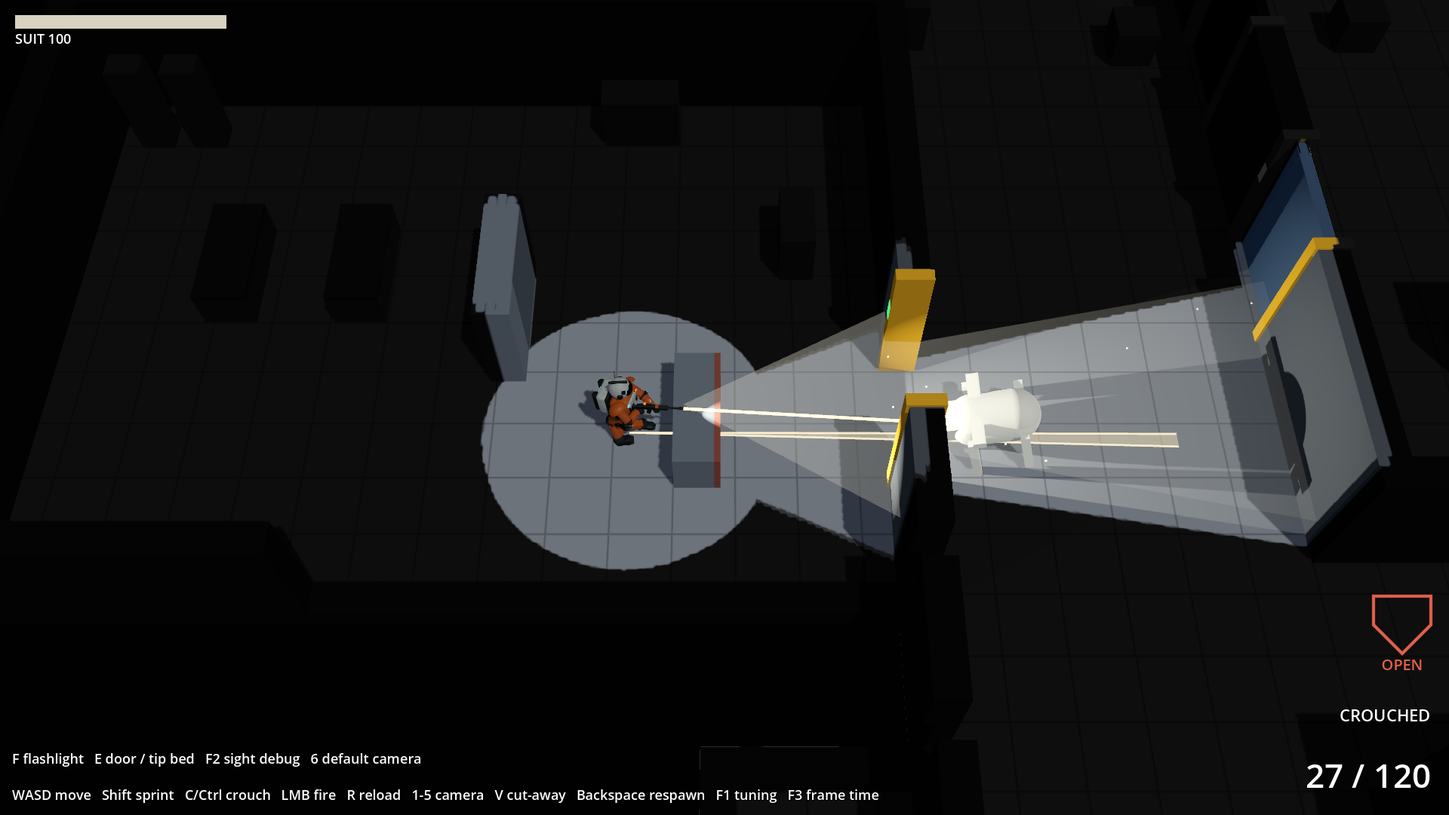
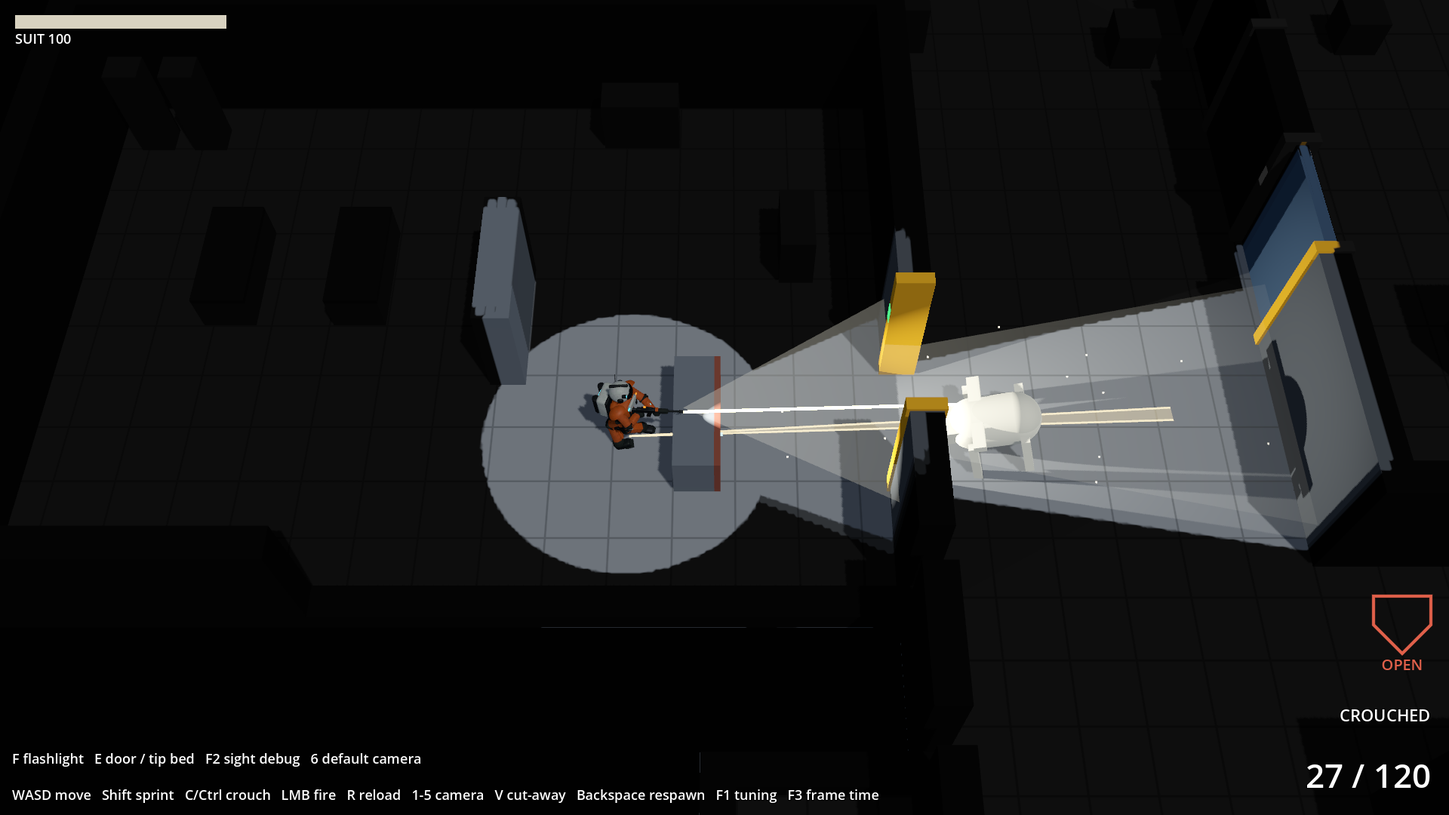
T006: contracts, handoff, STATUS, final captures

diff --git a/src/enemies/CONTRACT.md b/src/enemies/CONTRACT.md
@@ -1,6 +1,6 @@
 # enemies
 
-The stalker, its spit, the bulkhead ambush, and the scene that closes the grey-box core loop (T005).
+The stalker, its spit, the bulkhead ambush, and the scene that closes the grey-box core loop (T005). Made dangerous in T006: dashes, dodges, breaks doors.
 
 ## Owns
 - `stalker_brain.gd`: scene-free states, senses, turning, timing.
@@ -18,35 +18,38 @@ The stalker, its spit, the bulkhead ambush, and the scene that closes the grey-b
 - Cover rules (`src/cover`), the suit and puddle rules (`src/health`), sight (`src/sight`; `Visibility.blocked` answers "walls, shut doors, tall cover" for it), doors (`src/doors`).
 
 ## States
-`DORMANT` (the closet) → `STALK` on `wake`. `PROWL` → `INVESTIGATE` on a noise → back after `linger_s`. Prowl or investigate → `STALK` on seeing you or being shot. `STALK` → `SPIT` or `LUNGE` in range → `RECOVER` → `STALK`. Memory running out in `STALK` → `INVESTIGATE` the last known place. Your death → `PROWL`.
+`DORMANT` (the closet) → `STALK` on `wake`, rushing. `PROWL` → `INVESTIGATE` on a noise → back after `linger_s`. Prowl or investigate → `STALK` on seeing you, being shot at, or your light landing on it. `STALK` → `SPIT` or `LUNGE` in range → `RECOVER` → `STALK` (backing off for `back_off_s`). Prowl, investigate or stalk → `DODGE` on a threat, cooldown allowing → `STALK`. Stalk or investigate → `BASH` when a breakable shut door is all that's between it and `last_known` → `STALK` when the door stops being in the way. Memory running out in `STALK` → `INVESTIGATE` the last known place. Your death → `PROWL`.
 
 ## Rules
 - **Sight:** forward cone, stopped by walls, shut doors and tall cover, and by low cover on the 3D line to your torso: crouching behind a bed hides you. Within `close_sense_m` it feels you past low cover (not through walls).
-- **Doors:** it can't open them. A shut door stops it and its paths, and a noise behind one brings it up to the door. Doors won't close on it.
-- **Stalk:** a planner picks points on rings around you and beside cover, scored for being hidden from you, off the direct line and on its chosen side; far away it must also get closer by walking, and close up it circles.
+- **Doors:** it never opens them. If it knows you (or a noise) are behind a shut door and there's no way round, it walks up and bangs until the door breaks, `data/doors.json` `bash.break_s` of bashing. Two on one door are no faster. Locked doors hold: a stalker won't try them. Doors won't close on it.
+- **Moving:** in stalk it goes in dashes (`dash`) between short pauses, skittering side to side, facing where it's going; paused, it faces you. It walks only when prowling or investigating.
+- **Dodge:** a hit, a round passing within `shot_line_m`, or the light first landing on it. Sideways to you, to somewhere hidden if it can. Not out of a wind-up or charge. A threat during recovery waits for the recovery to end, so that window stays yours. Hits land normally during a dodge.
+- **Ambush rush:** on `wake` it goes straight at you with no pauses for up to `rush_s`, lunging as soon as it's in reach with the floor clear, whether or not it's facing you.
+- **Stalk:** a planner picks points on rings around you and beside cover, scored for being hidden from you, off the direct line and on its chosen side; far away it must also get closer by walking, and close up it circles. It replans on arriving and after an attack, when further from you scores instead of nearer and it may change sides.
 - **Lunge** only with nothing at knee height on the line (`ground_clear`). With a box between you it spits, which at short range arcs over.
 - **Fast turn on a lunge only.** Everything else turns at capped rates, and it walks where it faces.
 - **Firing from hiding** refreshes where it thinks you are.
 - **Ambush:** after you pass the panel by `past_m` with it at least `behind_deg` off your aim, within `max_range_m`. Bang and kick at once; the stalker moves `emerge_delay_s` later.
 
 ## Public API
-- `StalkerBrain.new(cfg, patrol, dormant, yaw)`: `step(delta, senses) -> events`, `hear(kind, at, from) -> bool`, `take_hit(damage, from) -> dealt`, `wake(player)`, `force_hunt`, `force_spit`, `force_lunge`, `alive()`, `hunting()`, `vulnerable()`, `state_name()`; static `perceives(...)`; fields `state`, `yaw`, `goal`, `velocity`, `last_known`, `knows`, `windup`, `charging`, `health`. Events `EV_SPIT`, `EV_LUNGE_START`, `EV_LUNGE_HIT`.
-- `StalkerNav.new(cfg, layout)`: `set_blocker(id, rect)` (empty Rect2 clears), `path(from, to)`, `is_free(p)`, `stalk_point(from, player, side, hidden)`.
+- `StalkerBrain.new(cfg, patrol, dormant, yaw)`: `step(delta, senses) -> events`, `hear(kind, at, from) -> bool`, `take_hit(damage, from) -> dealt`, `notice_shot(from)`, `wants_dodge()`, `backing_off()`, `wake(player, from)`, `force_hunt`, `force_spit`, `force_lunge`, `alive()`, `hunting()`, `vulnerable()`, `state_name()`; static `perceives(...)`; fields `state`, `yaw`, `goal`, `velocity`, `last_known`, `knows`, `windup`, `charging`, `dashing`, `rushing`, `bashing`, `plan_now`, `flip_side`, `rng`, `health`. Events `EV_SPIT`, `EV_LUNGE_START`, `EV_LUNGE_HIT`, `EV_BANG`.
+- `StalkerNav.new(cfg, layout)`: `set_blocker(id, rect, breakable)` (empty Rect2 clears), `path(from, to)`, `is_free(p)`, `line_free(a, b)`, `door_on_way(from, to)`, `dodge_point(from, player, side, hidden)`, `stalk_point(from, player, side, hidden, backing_off)`.
 - `SpitArc.new(cfg, from, to)`: `step(delta, cover, plan_blocked, body) -> FLYING|COVER|WALL|HIT|LANDED`, `point_at(s)`; static `blocked_by_cover(cfg, cover, from, to)`, `apex_for(cfg, d)`.
 - `AmbushTrigger.new(cfg, panel)`: `check(player, aim_dir) -> bool` (true once), `would_fire`, `reset()`, `fired`.
-- `StalkerPack`: `setup(layout, cover, blocked, dps)`, `tick(delta)`, `reset()`, `noise(kind, at)`, `shooter_lines()`, `play_sound(key, at)`; fields `stalkers`, `nav`, `spits`, `target` {`pos`, `height`, `alive`}.
-- `Stalker`: `setup`, `reset`, `simulate(delta, pack)`, `place_hunting(from, at)`, `take_hit`, `shot_disc`, `mouth`, `floor_position`; fields `brain`, `label`.
+- `StalkerPack`: `setup(layout, cover, blocked, dps)`, `tick(delta)`, `reset()`, `noise(kind, at)`, `shot_at(from, to)`, `door_towards(s)`, `next_dodge_point(s)`, `shooter_lines()`, `play_sound(key, at)`; fields `stalkers`, `nav`, `spits`, `light_on` (Callable, set by the scene), `target` {`pos`, `height`, `alive`}.
+- `Stalker`: `setup`, `reset`, `simulate(delta, pack)`, `place_hunting(from, at)`, `take_hit`, `shot_disc`, `mouth`, `floor_position`; fields `brain`, `label`, `door`.
 - `Bulkhead`: `setup(breach, cfg, height)`, `blow()`, `reset()`, `tick(delta)`, `blocks_sight()`, `sight_rect()`, `panel_center()`, `debris_count()`, `sealed`.
-- `stalker_deck.gd`: `simulate_world(delta)`, `interact()`, `fire_ambush()`, `body_height()`, `bed_in_reach(p)`, plus `weight_deck`'s and `sight_deck`'s. Keys: E tips a bed in reach, otherwise works a door; Backspace resets everything, starts a new life and writes the old one's log.
+- `stalker_deck.gd`: `simulate_world(delta)`, `interact()`, `fire_ambush()`, `body_height()`, `in_cover_now()`, `bed_in_reach(p)`, plus `weight_deck`'s and `sight_deck`'s. It's the project's main scene. Keys: E tips a bed in reach, otherwise works a door; 6 goes back to the default camera; Backspace resets everything, starts a new life and writes the old one's log.
 
 ## Signals
 `StalkerPack.player_hit(source, amount, stalker, in_cover)`, `player_protected(stalker)`; `SpitSystem.glob_ended(result, shooter, aimed_at)`; `Stalker.was_shot(stalker, damage, from)`; `Bulkhead.burst`.
 
 ## Data keys (`data/enemies.json`)
-- `stalker`: `health`, `radius_m`, `height_m`, `torso_m`, `mouth_m`, `hit_radius_m`, `vulnerable_damage_mult`; `senses` {`sight_range_m`, `sight_half_angle_deg`, `close_sense_m`, `memory_s`, `gunfire_m`, `sprint_m`, `sprint_emit_s`}; `turn` {`prowl_deg_s`, `investigate_deg_s`, `stalk_deg_s`, `spit_deg_s`, `lunge_deg_s`}; `speed` {`prowl_m_s`, `investigate_m_s`, `stalk_m_s`}; `prowl` {`pause_s`, `arrive_m`}; `investigate` {`linger_s`, `timeout_s`, `arrive_m`}; `stalk` {`replan_s`, `arrive_m`, `ring_radii_m`, `ring_samples`, `spot_margin_m`, `spot_range_m`, `hidden_score`, `flank_score_per_rad`, `flank_max_rad`, `side_score`, `from_cost_per_m`, `close_score_per_m`, `path_tries`, `orbit_slack_m`, `orbit_within_m`}; `nav` {`cell_m`, `repath_s`, `lookahead_cells`, `search_rings`}; `spit` {`windup_s`, `recover_s`, `cooldown_s`, `first_delay_s`, `min_range_m`, `max_range_m`, `face_deg`, `damage`, `hit_radius_m`, `protect_radius_m`, `body_margin_m`, `speed_m_s`, `min_flight_s`, `apex_short_m`, `apex_long_m`, `short_range_m`, `long_range_m`, `arc_samples`, `glob_radius_m`, `glob_color`, `glob_energy`}; `puddle` {`life_s`, `radius_m`, `blocked_back_m`, `shrink_from`, `height_m`, `color`, `energy`, `max_count`}; `lunge` {`windup_s`, `range_m`, `charge_m`, `speed_m_s`, `damage`, `hit_reach_m`, `recover_s`, `cooldown_s`, `first_delay_s`, `probe_height_m`}; `flinch` {`s`, `speed_factor`, `pitch_deg`, `flash_s`}; `body` {colours, `glow_*`, `windup_lean_deg`, `charge_stretch`, `recover_squash`, `dead_tilt_deg`, `visual_rate_per_s`, `parts` [{`capsule` [r, h] or `box` [x, y, z], `at`, `rot`}]}.
+- `stalker`: `health`, `radius_m`, `height_m`, `torso_m`, `mouth_m`, `hit_radius_m`, `vulnerable_damage_mult`; `senses` {`sight_range_m`, `sight_half_angle_deg`, `close_sense_m`, `memory_s`, `gunfire_m`, `sprint_m`, `sprint_emit_s`}; `turn` {`prowl_deg_s`, `investigate_deg_s`, `stalk_deg_s`, `spit_deg_s`, `lunge_deg_s`}; `speed` {`prowl_m_s`, `investigate_m_s`}; `dash` {`speed_m_s`, `min_s`, `max_s`, `pause_min_s`, `pause_max_s`, `turn_deg_s`, `jink_deg`, `jink_hz`, `rush_s`}; `dodge` {`speed_m_s`, `max_s`, `reach_m`, `cooldown_s`, `shot_line_m`, `angles_deg`, `hidden_score`, `side_score`, `arrive_m`}; `prowl` {`pause_s`, `arrive_m`}; `investigate` {`linger_s`, `timeout_s`, `arrive_m`}; `stalk` {`replan_s`, `arrive_replan_s`, `arrive_m`, `min_hop_m`, `back_off_s`, `flip_side_chance`, `ring_radii_m`, `ring_samples`, `spot_margin_m`, `spot_range_m`, `hidden_score`, `flank_score_per_rad`, `flank_max_rad`, `side_score`, `from_cost_per_m`, `close_score_per_m`, `path_tries`, `orbit_slack_m`, `orbit_within_m`}; `nav` {`cell_m`, `repath_s`, `lookahead_cells`, `search_rings`}; `spit` {`windup_s`, `recover_s`, `cooldown_s`, `first_delay_s`, `min_range_m`, `max_range_m`, `face_deg`, `damage`, `hit_radius_m`, `protect_radius_m`, `body_margin_m`, `speed_m_s`, `min_flight_s`, `apex_short_m`, `apex_long_m`, `short_range_m`, `long_range_m`, `arc_samples`, `glob_radius_m`, `glob_color`, `glob_energy`}; `puddle` {`life_s`, `radius_m`, `blocked_back_m`, `shrink_from`, `height_m`, `color`, `energy`, `max_count`}; `lunge` {`windup_s`, `range_m`, `charge_m`, `speed_m_s`, `damage`, `hit_reach_m`, `recover_s`, `cooldown_s`, `first_delay_s`, `probe_height_m`}; `flinch` {`s`, `speed_factor`, `pitch_deg`, `flash_s`}; `body` {colours, `glow_*`, `windup_lean_deg`, `charge_stretch`, `dash_stretch`, `recover_squash`, `dead_tilt_deg`, `visual_rate_per_s`, `parts` [{`capsule` [r, h] or `box` [x, y, z], `at`, `rot`}]}.
 - `pack` [{`name`, `space`, `at`, `yaw_deg`, `patrol` [[fx, fz]], `dormant`}].
 - `ambush`: `closet` (a space spec), `breach`, `spawn`, `pass_dir`, `past_m`, `max_range_m`, `behind_deg`, `emerge_delay_s`, `camera_kick_m`, `camera_kick_recover_s`, `panel_color`, `panel_roughness`, `debris` {`count`, `size_min_m`, `size_max_m`, `speed_min_m_s`, `speed_max_m_s`, `spread_deg`, `lift_m_s`, `gravity_m_s2`, `bounce`, `friction`, `spin_deg_s`, `color`, `hot_color`, `hot_share`}.
-- `sound`: `mix_rate`, `unit_size_m`, and `bang`, `spit`, `lunge` {`length_s`, `decay_per_s`, `low_hz`, `low_share`, `volume_db`}.
+- `sound`: `mix_rate`, `unit_size_m`, and `bang`, `spit`, `lunge`, `bash` {`length_s`, `decay_per_s`, `low_hz`, `low_share`, `volume_db`}.
 - `help` {`text`}.
 
-Tests: `tests/test_enemies.gd`.
+Tests: `tests/test_enemies.gd`. Bots: `tools/t006_bots.gd`.

diff --git a/docs/handoffs/auto-T006.md b/docs/handoffs/auto-T006.md
@@ -1,0 +1,128 @@
+# T006 handoff: a dangerous stalker, plus John's playtest fixes
+
+Branch `auto/t006-mac`. Play it: press F5 in the editor, or `godot --path .`; the main scene is now `stalker_deck`.
+New key: 6 returns to the new default camera (1-5 are the old presets, unchanged).
+
+**Nobody has played this, and nobody has heard the door bangs.** The numbers below come from bots and stills. The stage 2 gate is still open.
+
+**Two things did not fully land:**
+1. **The flashlight flicker is not confirmed fixed.** I never reproduced what John described (details below).
+2. **"Harder to land" is only partly met.** A bot with human-like lag hits about as often as before or a little less, but a perfect-aim bot hits more often and kills faster than before.
+
+## What changed
+- **Stalker:**
+  - Moves in dashes (6.5 m/s for 0.4-0.7 s, skittering side to side) with 0.2-0.55 s pauses, facing you when stopped.
+  - Dodges a hit, a near miss, or the light first landing on it, with a 0.9 s cooldown.
+  - Spit: 0.4 s wind-up, 16 m/s, 22 damage. Lunge: 5 m reach, 0.3 s wind-up, 2.4 s cooldown, 34 damage (staggers).
+  - After an attack it backs off for 1.3 s and may change sides. It replans as soon as it arrives.
+  - Health is unchanged: 7 rifle hits.
+- **Ambush:** out in 0.25 s, then straight at you with no pauses, lunging as soon as it's in reach.
+- **Doors:** a stalker never opens one. It bangs for 8 s of contact (`data/doors.json` `bash.break_s`) while the panel shakes, bows and dents, then the door lies flat and stays broken until respawn. Two stalkers are no faster.
+- **John's list:** crouch corkscrew fixed, `LIGHT OFF` on the HUD, `IN COVER` beside `CROUCHED`, shields 44 → 76 px and moved above the crouch readout, new default camera (pitch 60°, 20.5 m, fov 35°), awareness 2.2 m, 1.2 m crates block sight, main scene set.
+- **F1:** new sections for Stalker dash, Stalker dodge and Door breaking, plus Dust motes strength. The Stalk m/s slider is gone, because dash speed replaced that number.
+
+**Edits outside the named modules:** `data/deck.json` (the four `crate_high` props become `tall`, which the packet asked for) and the new tool `tools/t006_bots.gd`.
+
+### The crouch corkscrew
+It was in the legs. `L_Idle` and `L_Crouch_Idle` hold each thigh half a turn about its own length from the walk clips and rest pose. Godot blends rotations away from rest, so going into a crouch swung each foot in a loop about 0.4 m around the body. `operator_anim.gd` now rewrites those keys at load: same pose, the short way.
+- Measured: feet end where they did to within 1 cm and now travel straight.
+- Foot slide (`tools/t003_footslide.gd`) is no worse in any direction, and better walking back (68% → 59% of body speed) and sprinting (43% → 35%). The rest are within about 5 points.
+
+### The flashlight flicker: what I found and didn't
+| Suspect | Result |
+| --- | --- |
+| Sight polygon | Ruled out: 0 of 596,736 vertices leaked through an occluder across 8,000 aim steps; no area jumps over 1 m² |
+| Mouse-aim feedback through the camera | No oscillation found at 60 or 144 fps |
+| Motes, beam, spot shadow | No single one dominates: movie-mode twinkle 1.47% with all on, 1.42-1.46% with any one off, 1.16% light off. The gap fits the larger lit area |
+| Open door panel against its post | **Real and fixed:** a blue strip flashed through the yellow post in one saved frame, and flipping pixels went from 8 to 0 with the panel hidden |
+
+- **Fixed:** the open panel is now hidden, since it lies inside the wall.
+- **Fixed, but no before/after measured:** the beam dropped polygon points closer than the muzzle, joining their neighbours in one big triangle that could snap in and out near walls. Points are now pushed out instead.
+- **One unexplained reading:** a single early pass showed 47% of the screen twinkling in its worst frame. It didn't repeat in later runs, including a recreation of that opening, so I treated it as a startup artifact without proving it.
+- **Still untested:**
+  - The operator moves at 60 Hz while the camera moves at display rate (already in Parked), which my 60 fps movie runs can't show.
+  - The sight mask's stair-stepped edges, visible in the captures, which may crawl in motion.
+
+**John:** if it still flickers, set F1 Dust motes strength and Beam strength to 0 one at a time, tell us which clears it, and say whether it happens standing or moving.
+
+## Checks run
+**Headless: 181 passed, 0 failed, 0 load errors** (153 before T006). `--import` exits 0 with no errors; it still prints the 13 `invalid UID` warnings for `operator.glb`.
+
+| Packet check | Test |
+| --- | --- |
+| dash beats the walk | `test_a_dash_is_faster_than_the_players_walk_and_comes_in_bursts` |
+| shot → dodge, cooldown holds | `test_a_shot_triggers_a_dodge_and_the_cooldown_holds`, plus near-miss and light tests |
+| spit from data | `test_the_faster_spit_comes_from_data` |
+| ambush bots | `test_the_ambush_bites_a_player_who_only_reacts_to_the_sound`, `test_a_player_who_turns_at_once_fires_before_being_hit` |
+| door bang time, never opened | `test_a_stalker_breaks_a_shut_door_after_the_bang_time_and_never_opens_it`, plus five more door tests |
+| crouch | `test_crouching_from_standing_does_not_swing_the_legs_around` |
+| `IN COVER` | `test_in_cover_shows_behind_low_cover_with_nobody_hunting` |
+| camera default | `test_the_new_camera_is_the_default_in_every_deck_and_old_presets_keep_their_keys` |
+
+Old tests changed for John's numbers or the new behaviour: the sight fixture now uses `crate_low`, one cover-glob test blocks the stalker's own extra spit, and the lunge test compares against dash speed.
+
+Breaking the code on purpose, then restoring it:
+| Break | Tests that fail |
+| --- | --- |
+| a hit doesn't dodge | 2 |
+| no dodge cooldown | 1 |
+| door breaks in half the time | 2 |
+| stalker opens the door | 5 |
+| no leg untwist | 1 |
+| `IN COVER` needs a hunter | 1 |
+| the rush doesn't dash | 3 |
+| ambush back to 0.55 s | 1 |
+
+### Bot report (`tools/t006_bots.gd`, 12 runs each; "before" is commit 77d6c9d)
+| Bot | Before | After |
+| --- | --- | --- |
+| Standing still, after the burst: dies at | 8.57 s (first hit 3.00 s) | **4.98 s** (first hit 1.57 s) |
+| Crouched behind the bed, stalker 6 m off: dies at | 10.40 s (first hit 4.83 s) | **6.99 s** (first hit 3.32 s) |
+| Ambush, walks on 0.45 s then reacts: hit in | 1 of 12 runs | **12 of 12**, at 1.48 s (first shot 1.07 s) |
+| Ambush, turns at once: hit in | 1 of 12 runs | **12 of 12**, at 1.22 s (first shot 0.52 s) |
+| Tracks with 0.2 s lag: hit rate, kill time | 39%, 3.12 s | 31-38%, 2.60-3.24 s (two runs) |
+| Tracks perfectly: hit rate, kill time | 43%, 2.74 s | 61%, 1.62 s |
+
+- **Before the tuning pass,** the perfect tracker was at 71% and 1.40 s, and the lag tracker at 48% and 1.89 s. Skitter, a tighter hit disc (0.6 → 0.45 m) and the shorter dodge cooldown brought them down.
+- **Why perfect aim still does better:** the stalker now reaches you sooner and stands still in its wind-ups, and dodges don't interrupt those. I kept it that way because a dodge out of a wind-up would let your first hit cancel the ambush lunge.
+- **The bots are limited:** they stand still and fire whatever the cone says. The two tracking bots never die, so these runs can't say how the fight feels. The cover bot never moves either.
+- **Also worth knowing:** even the bot that turns at once gets hit. It gets a shot off first, as the packet asks, and only moving out of the charge line avoids the lunge. No bot tries that.
+
+### Frame time with two stalkers (15 s windows, 1920×1080, M2 Pro, Metal, MSAA 4x, vsync off)
+| Build | Average ms | p95 ms | p99 ms | Max ms |
+| --- | --- | --- | --- | --- |
+| T006 (2 runs before the door polish) | 8.41, 8.49 | 13.49, 13.32 | 16.28, 18.29 | 71.0, 122.3 |
+| T006 final capture | 8.57 | 13.78 | 20.56 | 82.9 |
+| T005 (same conditions, 2 runs) | 8.44, 8.45 | 14.21, 14.16 | 17.48, 18.89 | 34.4, 64.0 |
+
+**No measurable average cost compared with T005, but this isn't a quiet-machine number.** Zoom and Chrome were running (load average about 5-6), so don't compare it with T005's 3.50 ms. Max spikes were higher in the T006 runs, but on this few runs and this load I can't tell whether that's real.
+
+## Screenshots (`docs/screens/T006/`)
+`dash_mid_motion`, `dodge`, `spit_windup_fast`, `lunge_charge`, `door_mid_bash`, `door_broken`, `in_cover_readout`, `cover_protected`, `cover_braced_exposed`, `light_off_hud`, `ambush_1_bang`, `ambush_2_out_and_dashing`, `ambush_3_lunging`, `camera_default`, `camera_preset_1`, `death_screen`, `stalker_deck`, `stalker_deck_overlay`, `frametime.json`.
+
+Positions are staged by script, except the ambush. In the door shots the stalker walks up and bangs for real, but the damage is jumped ahead. Only stills were reviewed, so motion hasn't been judged.
+
+## Decisions made without you (easy to change)
+- **Cover class:** the 1.2 m crates are now `tall`. They stop shots, spit and stalker sight at any stance, instead of counting as 0.9 m low cover. You can no longer fire over them, and this removes the T005 question about rounds grazing them. Consoles (1.1 m) and low crates stay low.
+- **A noise also counts as "knows you're behind the door".** Firing where a stalker can hear you, through a shut door, starts it breaking through. This is the one most likely to need your call: it makes every shot a clock.
+- **Locked doors hold.** Stalkers don't try them, so a room reachable only through a locked door is safe.
+- **Your light gives you away:** a prowling stalker caught in the beam starts hunting you, out to the light's 15 m, past its own 11 m sight.
+- **Dodging waits during a recovery,** so that 1.5× damage window stays yours; it dodges as soon as the recovery ends.
+- **`IN COVER`** counts any cover within 1.0 m in any direction, low or tall, and hides while you rise to fire. It says where you are, not who it stops; the shields say that.
+- **Door damage stays** if the stalker leaves. You can still open a dented door.
+- **Investigating stalkers** walk faster (1.7 → 2.6 m/s); prowling is unchanged.
+
+## Known limits
+- The door's "knows" isn't refreshed: a stalker keeps banging even after you've left, unless a way round opens up.
+- The broken panel has no collision and no effect on cover.
+- In the player's sight, a stalker still pops in with no fade, which matters more at dash speed.
+- Dash and door bash are placeholder motion and sound: the body stretches and leans, and the bang is generated noise.
+
+## Needs John's eye
+1. *"Is moving through these rooms with a flashlight tense and fun?"* Play with F1 open.
+2. **Is it too much now?** Standing still you're dead in 5 s. First levers: Dash m/s, Skitter, Dodge cooldown, lunge Damage.
+3. **Does it still flicker?** See the steps above.
+4. **Do you see the corkscrew again?** Stand still and press C.
+5. **Are hits hard enough to land, and do dodges read as dodging?**
+6. **Is 8 s of banging right, and is the bang loud enough through a door?**
+7. **Should a gunshot start a stalker on a door?**

diff --git a/src/sight/CONTRACT.md b/src/sight/CONTRACT.md
@@ -17,12 +17,13 @@ Pillar 2, "Know the room, fear the corner" (T004): line of sight, the three stat
 
 ## Rules worth knowing
 - Walls block sight at their face; the mask spreads sight by `mask.dilate_m` so wall tops and faces show. It must stay under half a wall's thickness minus half a panel's, or sight spills past a door (0.22 m against 0.5 m walls and a 0.2 m panel).
-- Props at least `tall_prop_min_m` high block sight and are shown whole once a ray stops on them. Lower ones don't block. These are exactly the props with `cover: tall` (`tests/test_cover.gd` holds that). Crouching doesn't hide anything from the player's own sight; low cover against a stalker's eyes is in `src/enemies`.
+- F is light on or off, and the HUD says `LIGHT OFF` when it's off.
+- Props at least `tall_prop_min_m` high (1.2 m since T006, so the 1.2 m crates count) block sight and are shown whole once a ray stops on them. Lower ones don't block. These are exactly the props with `cover: tall` (`tests/test_cover.gd` holds that). Crouching doesn't hide anything from the player's own sight; low cover against a stalker's eyes is in `src/enemies`.
 - The grid is the rules' truth and updates at `memory.update_hz`; the mask's memory texture is painted from the same polygons every frame, so its edge is smoother than the cells.
 - The sight wedge starts at the eye, the light at the muzzle. `Flashlight.spot_angle_deg()` makes them equally wide at full range; nearer in, the wedge is up to `muzzle_ahead_m × tan(half angle)` wider each side.
 
 ## Public API
-- `Visibility.new(cfg)`: `set_static(rects)`, `set_dynamic(rects)`, `polygon(eye, aim_yaw, light_on) -> PackedVector2Array`, `can_see(eye, aim_yaw, light_on, p)`, `blocked(a, b)`, `cone(light_on)`, `reach(dir_yaw, aim_yaw, cone)`, `edge_count()`; field `hit_dynamic`; static `yaw_dir2(yaw)`. Points are world XZ in `Vector2`; yaw matches `OperatorModel`.
+- `Visibility.new(cfg)`: `set_static(rects)`, `set_dynamic(rects)`, `polygon(eye, aim_yaw, light_on) -> PackedVector2Array`, `can_see(eye, aim_yaw, light_on, p)`, `in_light(eye, aim_yaw, p)`, `blocked(a, b)`, `cone(light_on)`, `reach(dir_yaw, aim_yaw, cone)`, `edge_count()`; field `hit_dynamic`; static `yaw_dir2(yaw)`. Points are world XZ in `Vector2`; yaw matches `OperatorModel`.
 - `SightGrid.new(bounds, cell_m)`: `update(polygon, rects)`, `state_at(p)`, `count(state)`, `clear()`, `boundary(state)`; enum `UNKNOWN`, `REMEMBERED`, `VISIBLE`.
 - `SightSystem`: `setup(layout)`, `refresh_occluders()`, `update_sight(from, yaw, light, delta, force_memory)`, `forget()`; fields `visibility`, `grid`, `polygon`, `reveal`, `bounds`, `eye`, `aim_yaw`, `light_on`, `cfg`.
 - `SightTarget`: `seen`, `set_seen(bool)`, `floor_position()`.
@@ -35,6 +36,6 @@ Pillar 2, "Know the room, fear the corner" (T004): line of sight, the three stat
 `SightSystem.sight_updated(polygon, reveal)`, `forgotten`; `SightTarget.seen_changed(now_seen)`.
 
 ## Data keys (`data/sight.json`)
-`tall_prop_min_m`, `awareness_radius_m`, `cone_on` / `cone_off` {`range_m`, `half_angle_deg`}, `arc_step_deg`, `edge_step_deg`, `target_radius_m`; `memory` {`cell_m`, `update_hz`}; `mask` {`px_per_m`, `dilate_m`, `edge_low`, `edge_high`, `remembered_brightness`, `remembered_saturation`, `remembered_tint`, `unknown_brightness`, `unknown_saturation`, `bounds_margin_m`}; `flashlight` {`start_on`, `color`, `energy`, `attenuation`, `angle_attenuation`, `pitch_deg`, `muzzle_ahead_m`, `shadows`, `shadow_blur`}; `beam` {`color`, `strength`, `start_height_m`, `end_height_m`, `fade_power`}; `motes` {`count`, `lifetime_s`, `box_half_m`, `height_m`, `size_m`, `drift_m_s`, `spread_deg`, `color`, `strength`}; `lighting` {overrides of `data/deck.json` "lighting" in this scene}; `debug` {`polygon_color`, `visible_color`, `remembered_color`, `unknown_color`, `floor_y_m`, `outline_hz`}; `help` {`text`, `font_size`, `margin_px`, `from_bottom_px`}.
+`tall_prop_min_m`, `awareness_radius_m`, `cone_on` / `cone_off` {`range_m`, `half_angle_deg`}, `arc_step_deg`, `edge_step_deg`, `target_radius_m`; `memory` {`cell_m`, `update_hz`}; `mask` {`px_per_m`, `dilate_m`, `edge_low`, `edge_high`, `remembered_brightness`, `remembered_saturation`, `remembered_tint`, `unknown_brightness`, `unknown_saturation`, `bounds_margin_m`}; `flashlight` {`start_on`, `color`, `energy`, `attenuation`, `angle_attenuation`, `pitch_deg`, `muzzle_ahead_m`, `shadows`, `shadow_blur`}; `beam` {`color`, `strength`, `start_height_m`, `end_height_m`, `fade_power`}; `motes` {`count`, `lifetime_s`, `box_half_m`, `height_m`, `size_m`, `drift_m_s`, `spread_deg`, `color`, `strength`}; `lighting` {overrides of `data/deck.json` "lighting" in this scene}; `debug` {`polygon_color`, `visible_color`, `remembered_color`, `unknown_color`, `floor_y_m`, `outline_hz`}; `help` {`text`, `font_size`, `margin_px`, `from_bottom_px`}; `light_off` {`word`, `font_size`, `color`, `from_right_px`, `from_bottom_px`}.
 
 Tests: `tests/test_sight.gd`. CPU cost: `tools/t004_sight_bench.gd`.

diff --git a/src/cover/CONTRACT.md b/src/cover/CONTRACT.md
@@ -7,7 +7,7 @@ Cover with height (T005): what stops a shot in 3D, the bed you tip over, the HUD
 - `tip_state.gd`: scene-free rules of a tipping bed: upright (no cover), tipping (a commitment, still no cover), overturned (low).
 - `tip_bed.gd`: one bed: mesh hinged on its far long edge, collision, its piece in the field.
 - `shot_tracer.gd`: `Rifle.shot_tracer`. Walls and doors through physics; bodies on the plan line, aimed at at their torso height; cover in between stops the round.
-- `protection_mark.gd`: one shield per shooter.
+- `protection_mark.gd`: the HUD's cover readout: `IN COVER` beside the stance word, and above it one shield per shooter.
 
 ## Does not own
 - Who is shooting (the marks are told, by `src/enemies`), the E key (the scene), sight (`src/sight`; tall cover is already an occluder there).
@@ -16,19 +16,21 @@ Cover with height (T005): what stops a shot in 3D, the bed you tip over, the HUD
 - Low cover stands `low_height_m` whatever its mesh is, so the rule is one number: a 0.8 m crate, a 1.1 m console and a 1.2 m crate all count as 0.9. Tall has no top.
 - It's geometry, not "near a box": low cover protects a crouched body only when it is close enough to the body along the line. With the muzzle at 1.2 m and a crouched torso at 0.8 m that is the last quarter of the line.
 - Firing from a crouch braces you: torso at `braced_torso_m` for `brace_hold_s` after each shot, the body visibly rising.
+- `IN COVER` is about where you are: crouched, within `in_cover_reach_m` of any cover (low or tall), not rising to fire. It doesn't care who's hunting, or which way they are; the shields do.
+- The 1.2 m crates are tall cover since T006: they stop shots, spit and sight at any stance.
 - A shield is solid when cover stops what that shooter would throw right now (its arc, so it goes hollow when one gets close enough to lob over), and a hollow red "OPEN" otherwise.
 
 ## Public API
-- `CoverField.new(cfg)`: `set_piece(id, rect, kind)` ("none" removes), `kind_of(id)`, `height_of(kind)`, `segment_hit(a, b) -> {} or {t, point, id, kind}`, `line_blocked(a, b)`, `torso_height(crouch_amount, braced)`. Constants `NONE`, `LOW`, `TALL`.
+- `CoverField.new(cfg)`: `set_piece(id, rect, kind)` ("none" removes), `kind_of(id)`, `height_of(kind)`, `segment_hit(a, b) -> {} or {t, point, id, kind}`, `line_blocked(a, b)`, `near(p, reach)`, `torso_height(crouch_amount, braced)`. Constants `NONE`, `LOW`, `TALL`.
 - `TipState.new(cfg, overturned := false, fall_side := 1.0)`: `start(from_side) -> bool`, `step(delta) -> bool` (true on landing), `cover_class()`, `footprint(rect, thickness)`; fields `state`, `progress`, `side`.
 - `TipBed`: `setup(spec, rect, cover_field, cfg)`, `reset()`, `tick(delta)`, `try_tip(p) -> bool`, `can_tip()`, `distance_to_point(p)`, `footprint()`; fields `tip`, `upright_rect`.
 - `ShotTracer.new(cover, world)`: `trace(origin, dir, length)`; fields `bodies`, `exclude`. A body has `shot_disc() -> {} or {center: Vector2, radius, height}` and `take_hit(hit)`.
-- `ProtectionMark`: `set_lines(array of bool)`, `protected_count()`, `lines`.
+- `ProtectionMark`: `set_lines(array of bool)`, `set_in_cover(bool)`, `protected_count()`, `lines`, `in_cover`.
 
 ## Signals
 `TipBed.landed(bed)`, `TipBed.footprint_changed(bed)`.
 
 ## Data keys (`data/cover.json`)
-`low_height_m`, `standing_torso_m`, `crouched_torso_m`, `braced_torso_m`, `brace_hold_s`, `brace_crouch_shown`, `brace_rate_per_s`; `bed` {`tip_s`, `reach_m`, `lying_height_m`, `mattress_m`, `color`, `mattress_color`, `prompt`, `prompt_height_m`, `prompt_pixel_size`, `prompt_font_size`, `prompt_color`}; `mark` {`layer`, `size_px`, `word_gap_px`, `gap_px`, `from_bottom_px`, `line_px`, `protected_color`, `exposed_color`, `word_protected`, `word_exposed`, `font_size`}. Props' classes are in `data/deck.json`.
+`low_height_m`, `standing_torso_m`, `crouched_torso_m`, `braced_torso_m`, `brace_hold_s`, `brace_crouch_shown`, `brace_rate_per_s`; `bed` {`tip_s`, `reach_m`, `lying_height_m`, `mattress_m`, `color`, `mattress_color`, `prompt`, `prompt_height_m`, `prompt_pixel_size`, `prompt_font_size`, `prompt_color`}; `mark` {`layer`, `size_px`, `word_gap_px`, `gap_px`, `from_right_px`, `from_bottom_px`, `line_px`, `protected_color`, `exposed_color`, `word_protected`, `word_exposed`, `font_size`, `in_cover_word`, `in_cover_font_size`, `in_cover_from_right_px`, `in_cover_from_bottom_px`, `in_cover_pad_px`, `in_cover_height_px`, `in_cover_color`, `in_cover_text_color`, `in_cover_reach_m`, `in_cover_min_crouch`}. Props' classes are in `data/deck.json`.
 
 Tests: `tests/test_cover.gd`.

diff --git a/src/doors/CONTRACT.md b/src/doors/CONTRACT.md
@@ -1,9 +1,9 @@
 # doors
 
-Sliding bulkhead doors (T004).
+Sliding bulkhead doors (T004), which stalkers break (T006).
 
 ## Owns
-- `door_state.gd`: scene-free rules: closed, opening, open, closing, locked, and the panel's progress. Numbers from `data/doors.json`.
+- `door_state.gd`: scene-free rules: closed, opening, open, closing, locked, broken, the panel's progress, and how far it's been bashed. Numbers from `data/doors.json`.
 - `door.gd`: one door. Panel mesh, collision and sight rect all follow the panel, so a half-open door leaves a real half-size gap. Lamp on the frame post.
 - `door_system.gd`: places the deck's doors, steps them, answers E, shows one prompt over the door in reach.
 
@@ -14,18 +14,20 @@ Sliding bulkhead doors (T004).
 - Fully open is the only state that doesn't block; anything short of it still has a panel in the doorway.
 - A door won't start closing on someone in the doorway ("blocked"), and a closing door backs off if someone steps in.
 - A locked door answers "locked" and never moves. `unlock()` exists; nothing in the game calls it yet.
+- Bashing only adds up on a shut, unlocked door, and stays if the basher leaves. At `bash.break_s` it's `BROKEN`: for good, stops nothing, hides nothing, panel flat on the floor on the far side; E answers "broken". Only `reset` brings it back. Who bashes and when is `src/enemies`.
+- A fully open panel is hidden: it lies inside the wall, where it fought the door post's surfaces.
 - Only doors facing the camera (`along_x`) join the cut-away. Side doors stay tall, so a shut one reads as shut beside a dropped wall.
 
 ## Public API
-- `DoorState.new(cfg, start)`: `interact(doorway_clear) -> "opening"|"closing"|"locked"|"blocked"`, `step(delta, doorway_clear)`, `blocks()`, `is_locked()`, `unlock()`, `prompt_key()`; fields `state`, `progress`; enum `State`.
-- `Door`: `setup(door, spec, cfg, wall_height)`, `tick(delta, actors)`, `interact(actors)`, `doorway_clear(actors)`, `blocks_sight()`, `sight_rect()`; fields `door_state`, `opening`, `along_x`, `slide`, `space`, `side`. It's in group `sight_occluder`.
+- `DoorState.new(cfg, start)`: `interact(doorway_clear) -> "opening"|"closing"|"locked"|"blocked"|"broken"`, `step(delta, doorway_clear)`, `bash(delta) -> broke`, `blocks()`, `is_locked()`, `is_broken()`, `unlock()`, `prompt_key()`; fields `state`, `progress`, `bash_progress`; enum `State`.
+- `Door`: `setup(door, spec, cfg, wall_height)`, `tick(delta, actors)`, `interact(actors)`, `reset(start)`, `bash(delta, from)`, `bang()`, `front_point(from, radius)`, `within_reach(p, radius)`, `doorway_clear(actors)`, `blocks_sight()`, `sight_rect()`; fields `door_state`, `opening`, `along_x`, `slide`, `space`, `side`. It's in group `sight_occluder`.
 - `DoorSystem`: `setup(layout)`, `tick(delta)`, `door_in_reach(p)`, `interact(p) -> answer or ""`, `show_prompt(p)`; fields `doors` (same order as `data/deck.json` "doors"), `cfg`, `actors` [{`position`: Vector2, `radius`}].
 
 ## Signals
 `Door.state_changed(door)`, `DoorSystem.door_used(door, answer)`.
 
 ## Data keys
-- `data/doors.json`: `open_s`, `close_s`, `reach_m`, `panel_thickness_m`, `panel_top_gap_m`, `panel_roughness`, `open_tolerance`, `lamp_size_m` [along, up, across], `lamp_height_m`, `lamp_energy`, `label_height_m`, `label_pixel_size`, `label_font_size`, `colors` {`panel`, `panel_locked`, `lamp_closed`, `lamp_open`, `lamp_locked`, `label`, `label_locked`}, `words` {`open`, `close`, `locked`}.
+- `data/doors.json`: `open_s`, `close_s`, `reach_m`, `panel_thickness_m`, `panel_top_gap_m`, `panel_roughness`, `open_tolerance`, `lamp_size_m` [along, up, across], `lamp_height_m`, `lamp_energy`, `label_height_m`, `label_pixel_size`, `label_font_size`, `bash` {`break_s`, `bang_interval_s`, `reach_m`, `shake_m`, `shake_s`, `shake_hz`, `dent_count`, `dent_size_m`, `bow_deg`, `dent_seed`, `broken_lean_deg`}, `colors` {`panel`, `panel_dented`, `dent_mark`, `panel_broken`, `panel_locked`, `lamp_closed`, `lamp_open`, `lamp_locked`, `lamp_broken`, `label`, `label_locked`}, `words` {`open`, `close`, `locked`, `broken`}.
 - `data/deck.json` "doors" entries gain `state` ("closed"|"open"|"locked") and `slide` (±1, which way along the wall the panel goes; pick the side with solid wall).
 
 Tests: `tests/test_doors.gd`.

diff --git a/docs/STATUS.md b/docs/STATUS.md
@@ -1,6 +1,6 @@
 # Grave Rats — status
 
-**Stage:** 2 (core loop, grey box): John played it 2026-10-30. Gate not passed: the stalker is too slow and weak to scare. T006 (make it dangerous, plus his fixes) and A005 (hauler turnaround, HUD, title) queued.
+**Stage:** 2 (core loop, grey box): John played it 2026-10-30; gate not passed then. T006 (dangerous stalker, his fixes) is built and needs his play. A005 (hauler turnaround, HUD, title) queued.
 
 ## Stage plan (each stage ends in a gate John answers by playing)
 0. **Skeleton.** Godot project, headless tests, capture tool, runners. Gate: none (lead checks). **Done 2026-10-30.**
@@ -12,14 +12,16 @@
 Later (parked): competitive modes, ship generation, contracts and meta, the threat roster.
 
 ## What builders need now
-- Code: T006 queued (faster, dodging stalker; ambush that bites; doors broken slowly; crouch corkscrew, flashlight flicker, cover readout, camera between presets 1 and 2, awareness 2.2 m, tall crates block sight, stalker_deck as main scene).
+- Code: T006 awaiting merge and John's play (`docs/handoffs/auto-T006.md`). Next, by the lead's plan: T007, a shooting enemy.
 - Art: A005 queued (orange hauler model sheet, crew variety, suit-OS HUD with the ring, title art recomposed, logo set).
 
 ## Open questions (for John)
-- Stage 2 gate, again after T006: tense and fun with a dangerous stalker?
+- Stage 2 gate, on T006: tense and fun with a dangerous stalker? Too much?
+- Flashlight flicker: not reproduced, so not confirmed fixed. Does it still happen, and which F1 lever clears it?
+- Should a gunshot through a shut door start a stalker breaking it? (Built that way.)
 - Room and character scale: untested (the keys only work in `scenes/study/scale_deck.tscn`, not the stalker deck).
 - A shooting enemy next (security robot or rival pirate), then lock-to-cover (his Gears idea)? Lead's plan: yes, T007 after T006.
-- `tools/capture.sh` only reaches 1920×954 on this display; accept, or make the capture window borderless?
+- `tools/capture.sh` reached 1920×1080 on the 2026-10-30 T006 runs (it was 1920×954 in T005); still worth a look if it drops again.
 
 ## Parked
 - Lock-to-cover, Gears style (John): brace against cover and shoot over it. Waits for a shooting enemy.
@@ -30,11 +32,12 @@ Later (parked): competitive modes, ship generation, contracts and meta, the thre
 - Legacy clips: a real walk (the run clips stand in), a crouch walk with real steps, turn-in-place feet. Foot slide numbers in auto-T003.
 - `tests/test_deck.gd` `test_props_at_real_size` logs a string-format error (`%` with an array) while passing.
 - Sight leaks: the floor aim cone stops at unseen walls, tracers and prompts draw over the mask, hidden targets pop in with no fade.
-- T005 limits: the cover shield can show a stalker you can't see; 1.2 m crate physics boxes may stop 1.2 m rounds; a tipped bed can land on a stalker; 13 `invalid UID` import warnings for `operator.glb`.
+- T005 limits: the cover shield can show a stalker you can't see; a tipped bed can land on a stalker; 13 `invalid UID` import warnings for `operator.glb`.
 - Quiet-machine frame-time baseline for the asset viewer (T001 runs had other load on the Mac).
 - `src/study` deck dressing and the deck copy in `stalker_deck` want a real level module.
-- Stalker: a hit interrupting a wind-up; a player death animation.
+- Stalker: a hit interrupting a wind-up; a player death animation; a fade for stalkers coming into sight (matters more at dash speed).
+- Sight mask edges are stair-stepped in captures; possible flicker contributor, untested.
+- Bot that sidesteps the lunge; the current bots only stand or walk straight.
 
 ## Last session
-2026-10-30 (lead): John played the stalker deck. Feedback in `docs/playtests/log.md`; picks in `docs/decisions.md`. Wrote and queued T006 and A005.
-2026-10-30 (lead, earlier): merged T005 (153/153 reproduced); morning report published.
+2026-10-30 (code): built T006 on `auto/t006-mac`: 181/181 tests, 8 of 8 deliberate breaks caught. Standing bot dies at 4.98 s (was 8.57 s); the ambush hits both bots in 12 of 12 runs (was 1 of 12). Corkscrew found and fixed. Open: flicker not reproduced; a perfect-aim bot lands hits more easily than before. Nobody has played it.

diff --git a/src/player/CONTRACT.md b/src/player/CONTRACT.md
@@ -23,6 +23,7 @@ The weighty operator (T003). The rule: the intent responds the same step, the co
 - Turn rate: standing to crouched by crouch amount, and the slower of that and firing while a shot is recent.
 - Hips stay planted until the torso runs out of lead, then get dragged; while moving they also catch up at `hip_settle_deg_s`.
 - Sprinting needs Shift, a move held, no crouch key and fully upright, so crouch beats sprint.
+- `L_Idle` and `L_Crouch_Idle` hold each thigh half a turn about its length from the walk clips and the rest pose, which made the blend into a crouch swing the feet around the body. `operator_anim.gd` rewrites those keys at load, same pose, the short way. It edits the shared clip resources once.
 - The legacy `L_Strafe_L/R` clips are named backwards (planted feet sweep the wrong way); the blend tree swaps them. `tests/test_player.gd` guards it.
 
 ## Signals

diff --git a/src/camera/CONTRACT.md b/src/camera/CONTRACT.md
@@ -22,7 +22,7 @@ Any `Node3D` in group `camera_cutaway` with its origin on the floor, meta `cutaw
 - `cutaway_mode_changed(mode: String)`
 
 ## Data keys (`data/camera.json`)
-- `default_preset` (index), `near_m`, `far_m`.
+- `default_preset` (index; 5, John's pick between old presets 1 and 2, in every deck. The first five presets stay on keys 1-5; only `stalker_deck` has a key for the sixth, 6), `near_m`, `far_m`.
 - `follow` {`smoothing_hz` (exponential rate; 0 = locked), `look_ahead_m`, `focus_height_m`}.
 - `presets` [{`name`, `projection` ("perspective"|"orthographic"), `pitch_deg` (below horizontal), `yaw_deg`, `fov_deg` (vertical), `distance_m`, `ortho_size_m` (vertical extent)}].
 - `cutaway` {`mode`, `modes`, `low_height_m`, `fade_transparency`, `half_width_m`, `depth_m`, `behind_m`, `speed_per_s`}.

diff --git a/src/debug/CONTRACT.md b/src/debug/CONTRACT.md
@@ -3,6 +3,7 @@
 ## Owns
 - `fps_overlay.gd`: FPS / frame-time overlay. Autoload `DebugOverlay` (CanvasLayer 100). F3 toggles. Hidden in headless runs.
 - `capture.gd`: windowed capture driver. Autoload `Capture`, idle unless the command line has `--capture-out=` (started by `tools/capture.sh`).
+- Main scene: `scenes/enemies/stalker_deck.tscn` (in `project.godot`), so F5 runs the latest build.
 - `tuning_panel.gd`: F1 tuning panel (dev only; the scene that wants it adds it). Sliders from `data/debug.json` "tuning" write into the loaded data live; Save writes changed files back to `data/`.
 - `asset_viewer.gd`: script of `scenes/dev/asset_viewer.tscn`, the legacy asset viewer (dev only).
 
